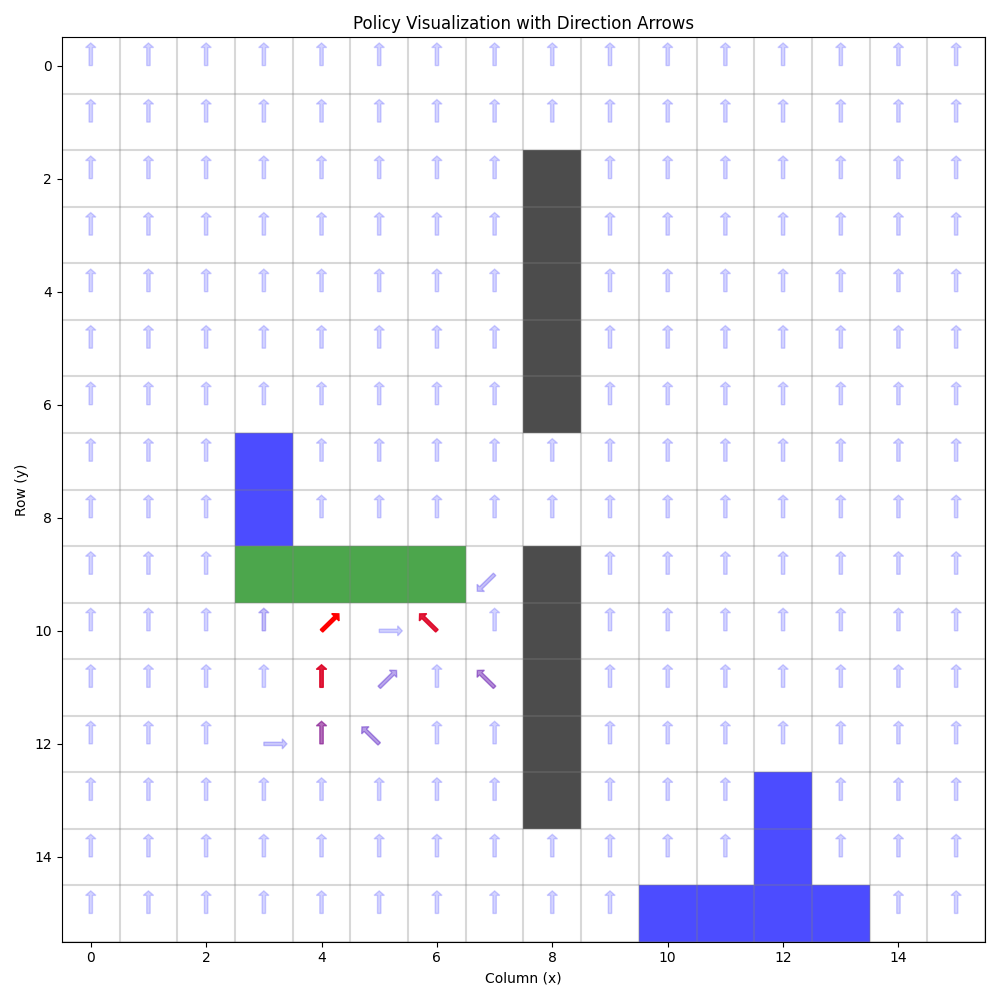
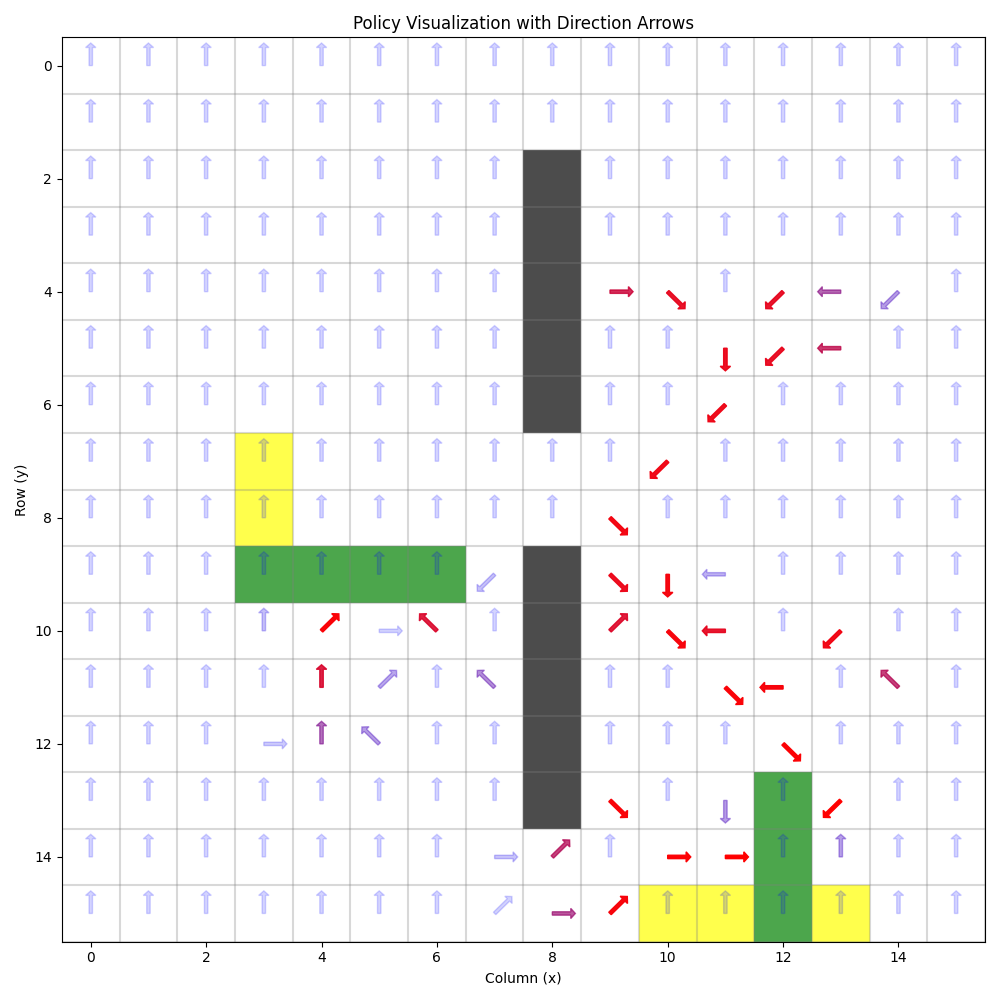
visual boolean composed tasks

diff --git a/project/boolean_task.py b/project/boolean_task.py
@@ -5,6 +5,14 @@ from reach_avoid_tabular import torch, Room, create_room
 import matplotlib.pyplot as plt
 from matplotlib.patches import Arrow, Rectangle
 
+
+def task_not(goal: torch.Tensor):
+    return 1 - goal
+def task_and(goals: list[torch.Tensor]):
+    return torch.min(torch.stack(goals), dim=0).values
+def task_or(goals: list[torch.Tensor]):
+    return torch.max(torch.stack(goals), dim=0).values
+
 class GoalOrientedQLearning:
     def __init__(self, room:Room, pretrained=False, alpha=0.1, gamma=0.99, epsilon=0.1):
         """
@@ -158,15 +166,17 @@ class GoalOrientedQLearning:
         
         # Define colors for different elements
         goal_color = 'green'
-        void_colors = ['black', '', 'blue']
+        terminal_color = 'yellow'
+        obstacle_color = 'black'
         for x in range(policy_grid.shape[1]):
             for y in range(policy_grid.shape[0]):
-                if mask[y][x] > 0:
+                if self.env.terrain[y,x] == 0:
+                    ax.add_patch(Rectangle((x-0.5, y-0.5), 1, 1, facecolor=obstacle_color, alpha=0.7))
+                    continue
+                elif mask[y][x] > 0:
                     ax.add_patch(Rectangle((x-0.5, y-0.5), 1, 1, facecolor=goal_color, alpha=0.7))
-                    continue
-                elif self.env.terrain[y,x] != 1:
-                    ax.add_patch(Rectangle((x-0.5, y-0.5), 1, 1, facecolor=void_colors[self.env.terrain[y,x]], alpha=0.7))
-                    continue
+                elif self.env.terrain[y,x] == 2:
+                    ax.add_patch(Rectangle((x-0.5, y-0.5), 1, 1, facecolor=terminal_color, alpha=0.7))
                 
                 # Draw arrows for each cell in the grid
                 action = policy_grid[y, x]
@@ -259,8 +269,9 @@ if __name__ == "__main__":
     
     # Train the agent
     agent.env.start()
-    # rewards = agent.train(num_episodes=100, max_steps_per_episode=500)\
-    agent.visualize_policy_with_arrows(agent.env.goals["Danger 1"])
+    # rewards = agent.train(num_episodes=100, max_steps_per_episode=500)
+    t0,t1,t2,t3 = list(agent.env.goals.values())
+    agent.visualize_policy_with_arrows(task_or([t1, t2]))
     
     # # Plot learning curve
     # plt.figure(figsize=(10, 5))
